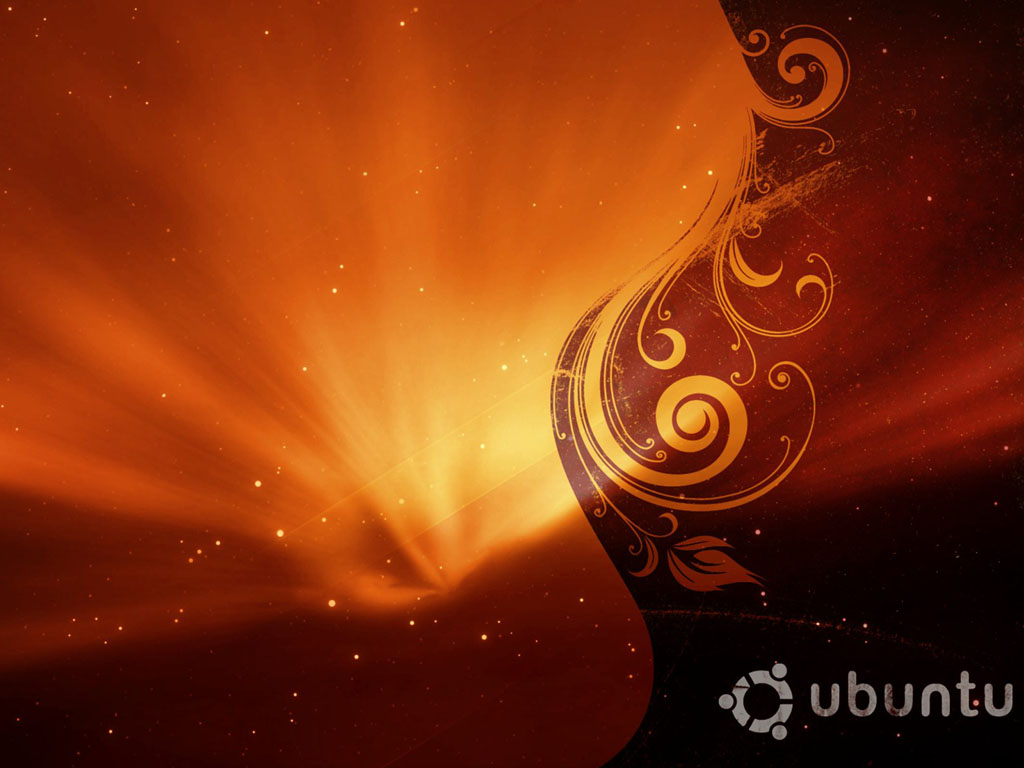
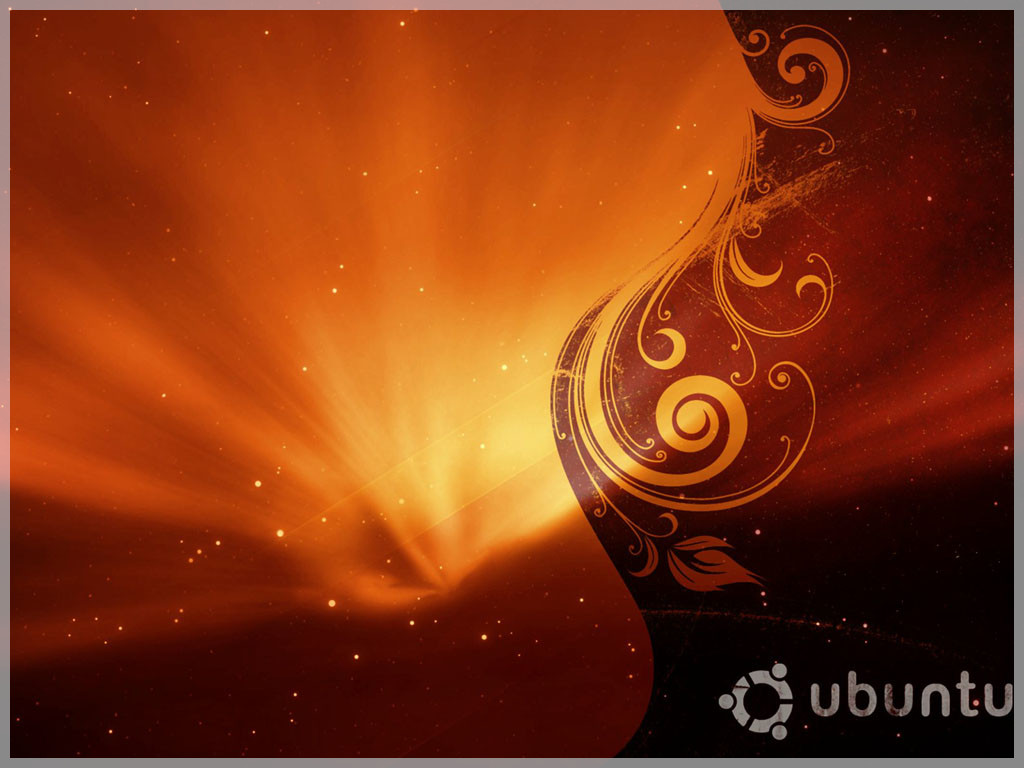
Background painter

Changed region(s): [[0.0, 0.0, 1.0, 1.0]]

diff --git a/src/page/background/image/image.tsx b/src/page/background/image/image.tsx
@@ -7,18 +7,24 @@ import backgroundURL from "./background.jpg"
 
 import "./image.css"
 
-const Button = Tfw.View.Button
-const _ = Tfw.Intl.make(require("./image.yaml"))
+const Combo = Tfw.View.Combo
+const Slider = Tfw.View.Slider
 
 interface IImageProps {
     className?: string[]
 }
-interface IImageState {}
+interface IImageState {
+    alignX: number,
+    alignY: number,
+    scale: number,
+    type: string
+}
 
-class IBackground extends FlatLand.Painter.Background {}
+
+class IBackground extends FlatLand.Painter.Background { }
 
 export default class Image extends React.Component<IImageProps, IImageState> {
-    state = {}
+    state = { alignX: 0.5, alignY: 0.5, scale: 1, type: "square" }
     private refCanvas = React.createRef<HTMLCanvasElement>()
     private backgroundPainter?: IBackground
 
@@ -32,14 +38,15 @@ export default class Image extends React.Component<IImageProps, IImageState> {
             atlas,
             alignX: 0,
             alignY: 0,
-            scale: 1
+            scale: 0.5
         })
-        scene.use([ background ])
+        scene.use([background])
         scene.start()
         this.backgroundPainter = background
     }
 
     render() {
+        const { alignX, alignY, scale, type } = this.state
         const classes = [
             'page-background-Image',
             ...Tfw.Converter.StringArray(this.props.className, [])
@@ -50,23 +57,51 @@ const scene = new FlatLand.Scene(canvas)
 const atlas = scene.createAtlas({ image: url })
 const background = new FlatLand.Painter.Background({
     atlas,
-    alignX: 0,
-    alignY: 0,
-    scale: 1
+    alignX: ${alignX},
+    alignY: ${alignY},
+    scale: ${scale}
 })
 scene.use([ background ])
 scene.start()
 `
-        /*const { backgroundPainter } = this
+        const { backgroundPainter } = this
         if (backgroundPainter) {
-            backgroundPainter.align = align
-        }*/
+            backgroundPainter.alignX = alignX
+            backgroundPainter.alignY = alignY
+            backgroundPainter.scale = scale
+        }
+
 
         return (<div className={classes.join(' ')}>
-            <div>
-                <Code src={code} />
+            <div className="flex">
+                <Slider
+                    label="alignX" min={0} max={1}
+                    value={alignX} text={alignX.toFixed(2)}
+                    onChange={alignX => this.setState({ alignX })} />
+                <Slider
+                    label="alignY" min={0} max={1}
+                    value={alignY} text={alignY.toFixed(2)}
+                    onChange={alignY => this.setState({ alignY })} />
             </div>
-            <canvas ref={this.refCanvas} className="thm-ele-button" width="384" height="256"></canvas>
+            <div className="flex">
+                <Slider
+                    label="scale" min={0.5} max={3}
+                    value={scale} text={scale.toFixed(2)}
+                    onChange={scale => this.setState({ scale })} />
+                <Combo value={type} onChange={type => this.setState({ type })}>
+                    <div key="landscape">Landscape</div>
+                    <div key="portrait">Portrait</div>
+                    <div key="square">Square</div>
+                </Combo>
+            </div>
+            <div className="flex">
+                <Code src={code} />
+                <div className="canvas">
+                    <canvas ref={this.refCanvas} className="thm-ele-button"
+                        width={type === 'portrait' ? 120 : 200}
+                        height={type === 'landscape' ? 120 : 200}></canvas>
+                </div>
+            </div>
         </div>)
     }
 }

diff --git a/src/page/background/image/image.css b/src/page/background/image/image.css
@@ -1,6 +1,11 @@
-div.page-background-Image {
+div.page-background-Image > div.flex {
     display: flex;
     flex-direction: row;
     justify-content: space-around;
-    align-items: center;    
+    align-items: flex-end;
+}
+
+div.page-background-Image > div.flex > div.canvas {
+    flex: 0 0 256px;
+    text-align: right;
 }
